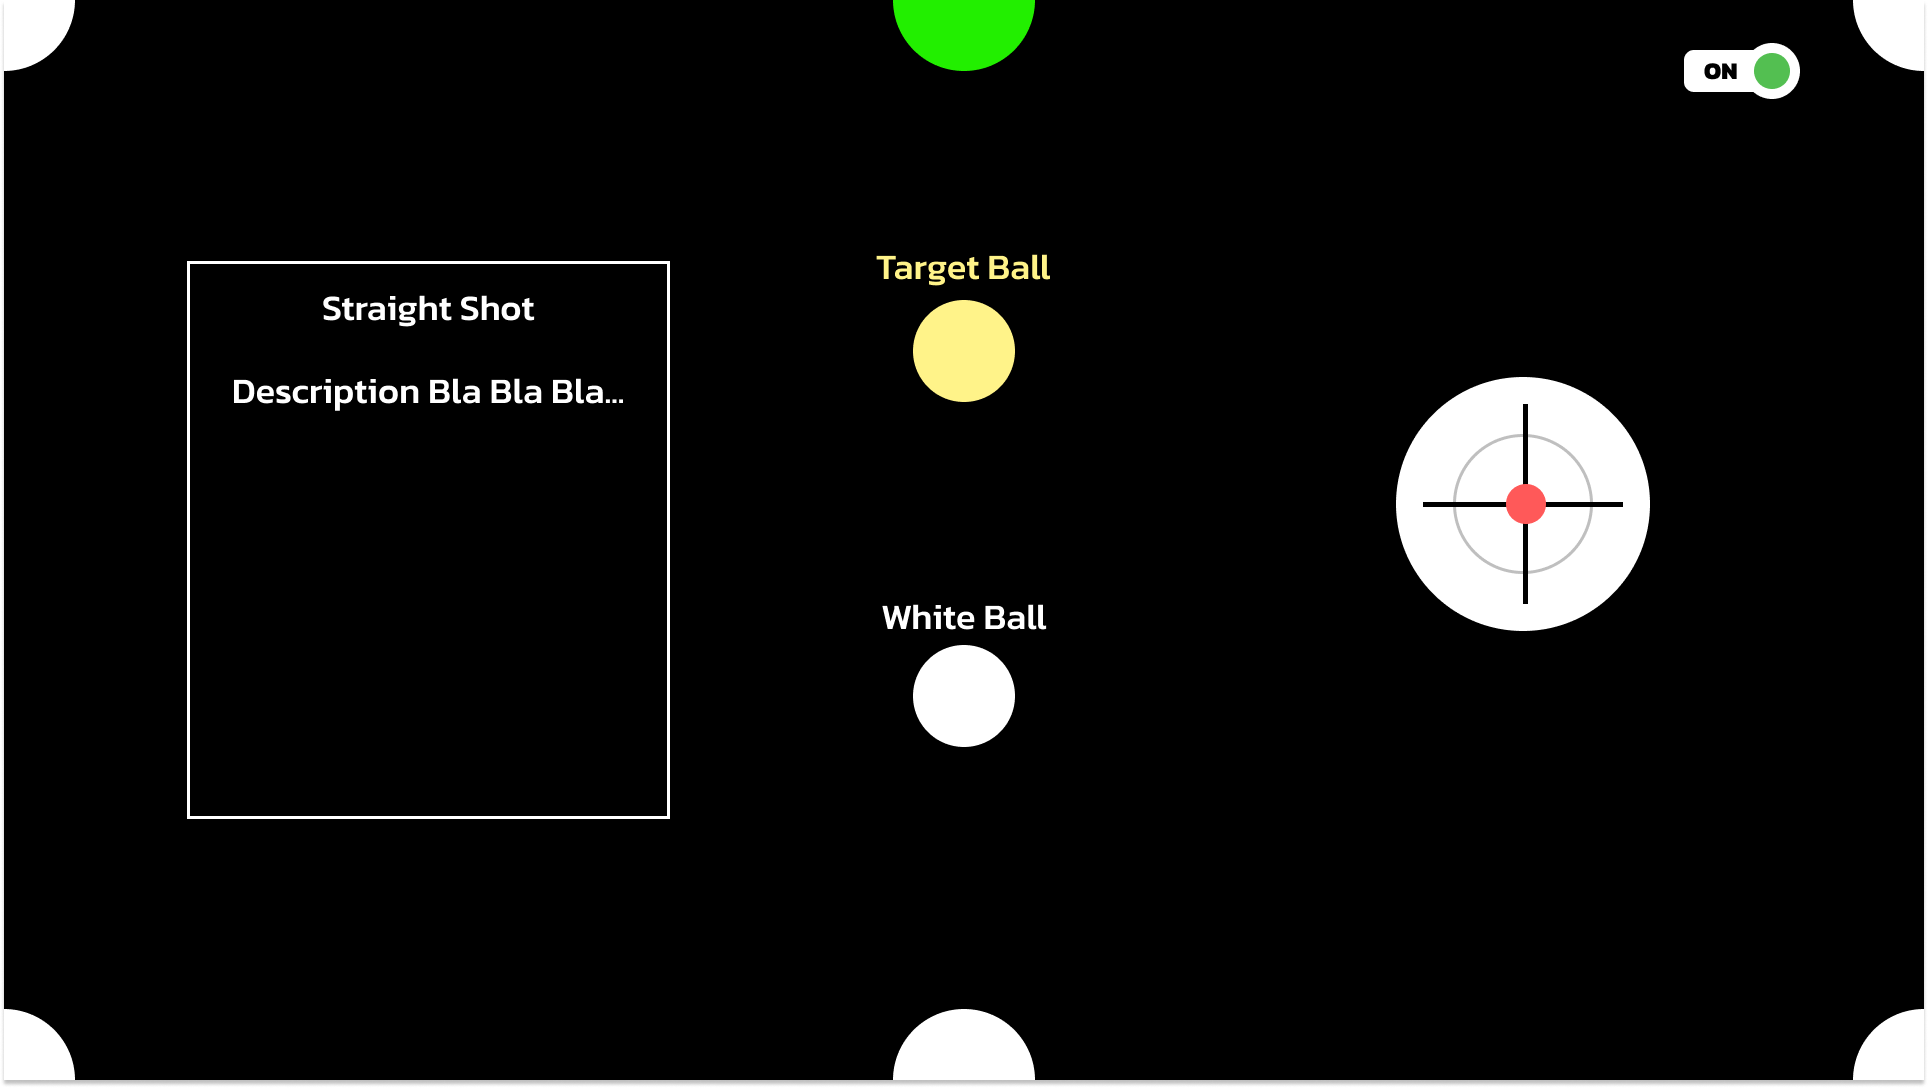
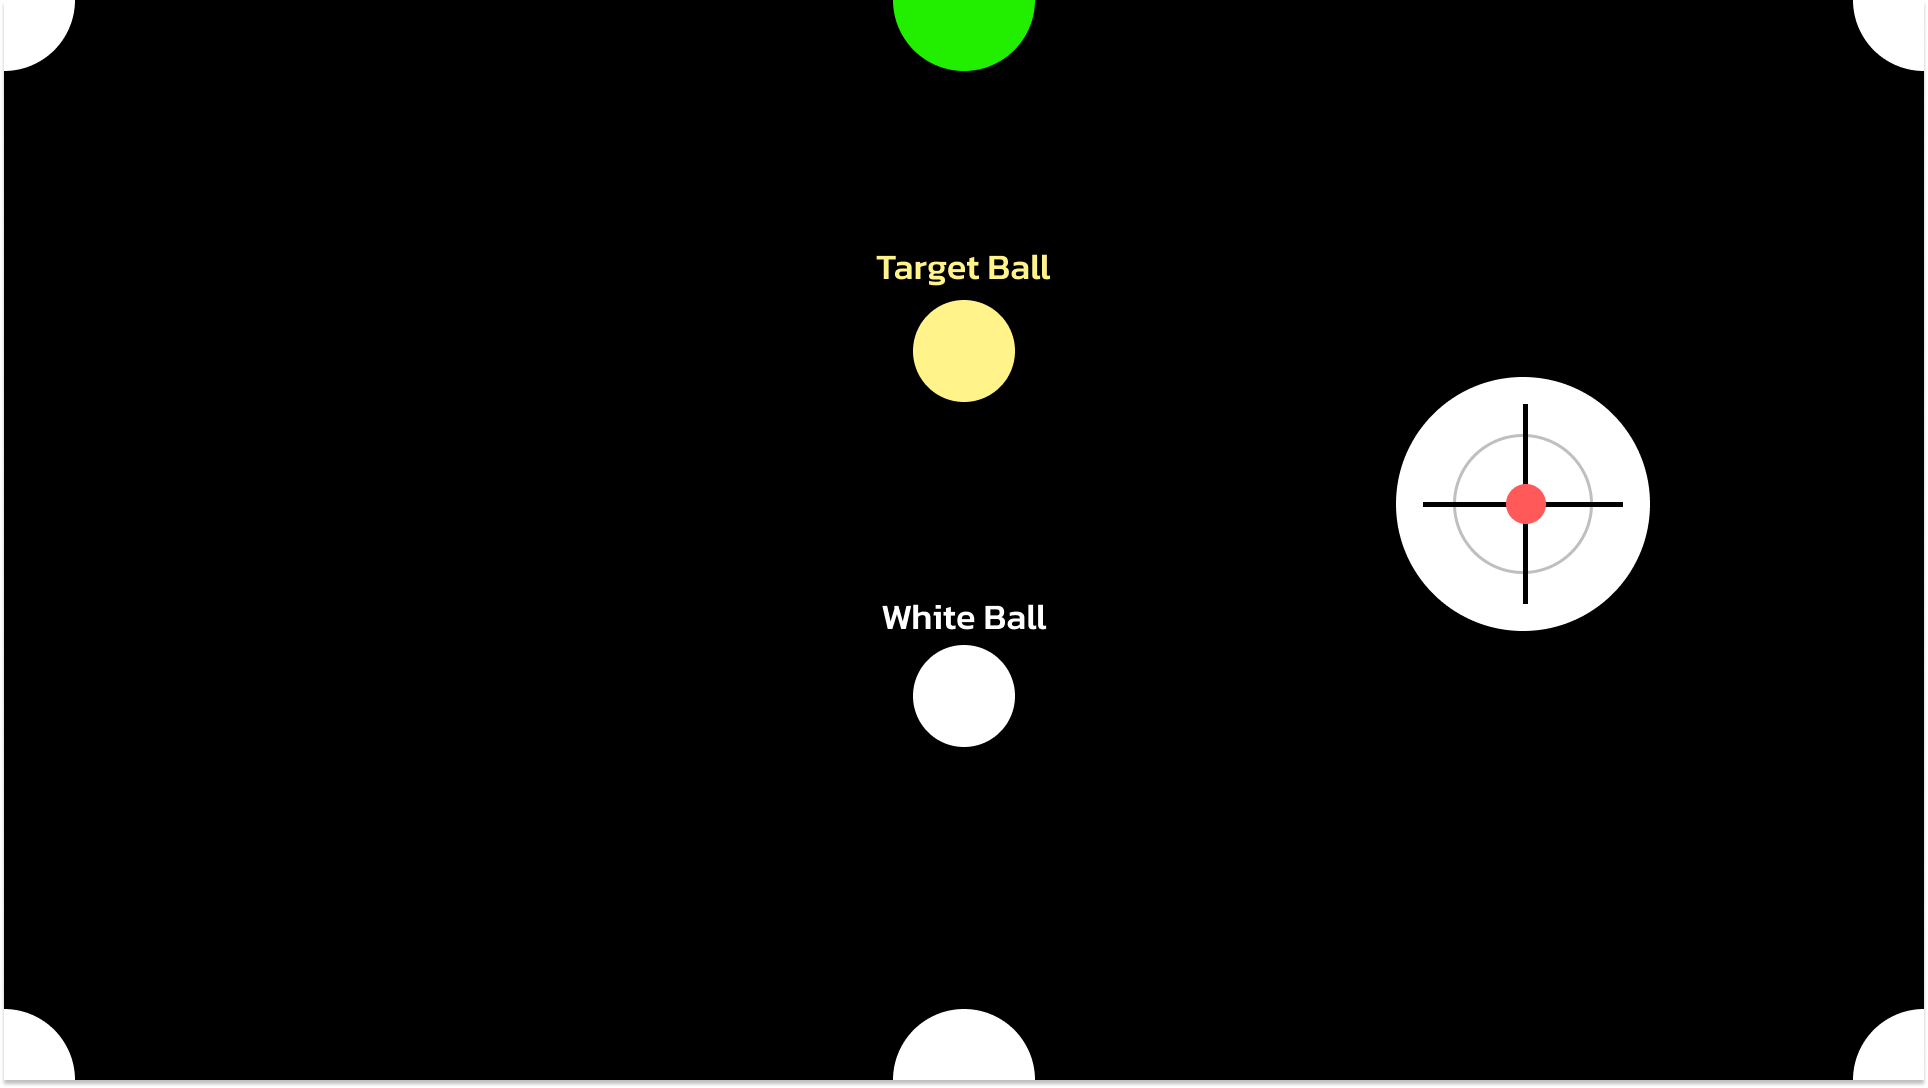
add stage

Changed region(s): [[0.0934, 0.3438, 0.3112, 0.375], [0.1556, 0.25, 0.2801, 0.3125], [0.8714, 0.0312, 0.9336, 0.0938]]

diff --git a/Pool-UI.py b/Pool-UI.py
@@ -136,6 +136,8 @@ class ModeBasic(tk.Frame):
         self.btnback = PhotoImage(file="left-arrow.png")
         self.btnnext = PhotoImage(file="arrow-forward.png")
         self.stage1 = PhotoImage(file="iMac - 18.png")
+        self.stage2 = PhotoImage(file="iMac - 23.png")
+        self.stage3 = PhotoImage(file="iMac - 24.png")
         self.num = [1,2,3]
         self.stage = 0
         bg = Label(self, image=self.bg)
@@ -170,11 +172,16 @@ class ModeBasic(tk.Frame):
     
     def display(self,stagenum):
         self.stage = stagenum
+        print(self.stage)
         if self.stage == 1 :
             stage1 = Label(self, image=self.stage1)
             stage1.place(x=0, y=0)
-            
-
+        elif self.stage == 2 :
+            stage2 = Label(self, image=self.stage2)
+            stage2.place(x=0, y=0)
+        elif self.stage == 3 :
+            stage3 = Label(self, image=self.stage3)
+            stage3.place(x=0, y=0)
 
 
 class ModeAmature(tk.Frame):  
